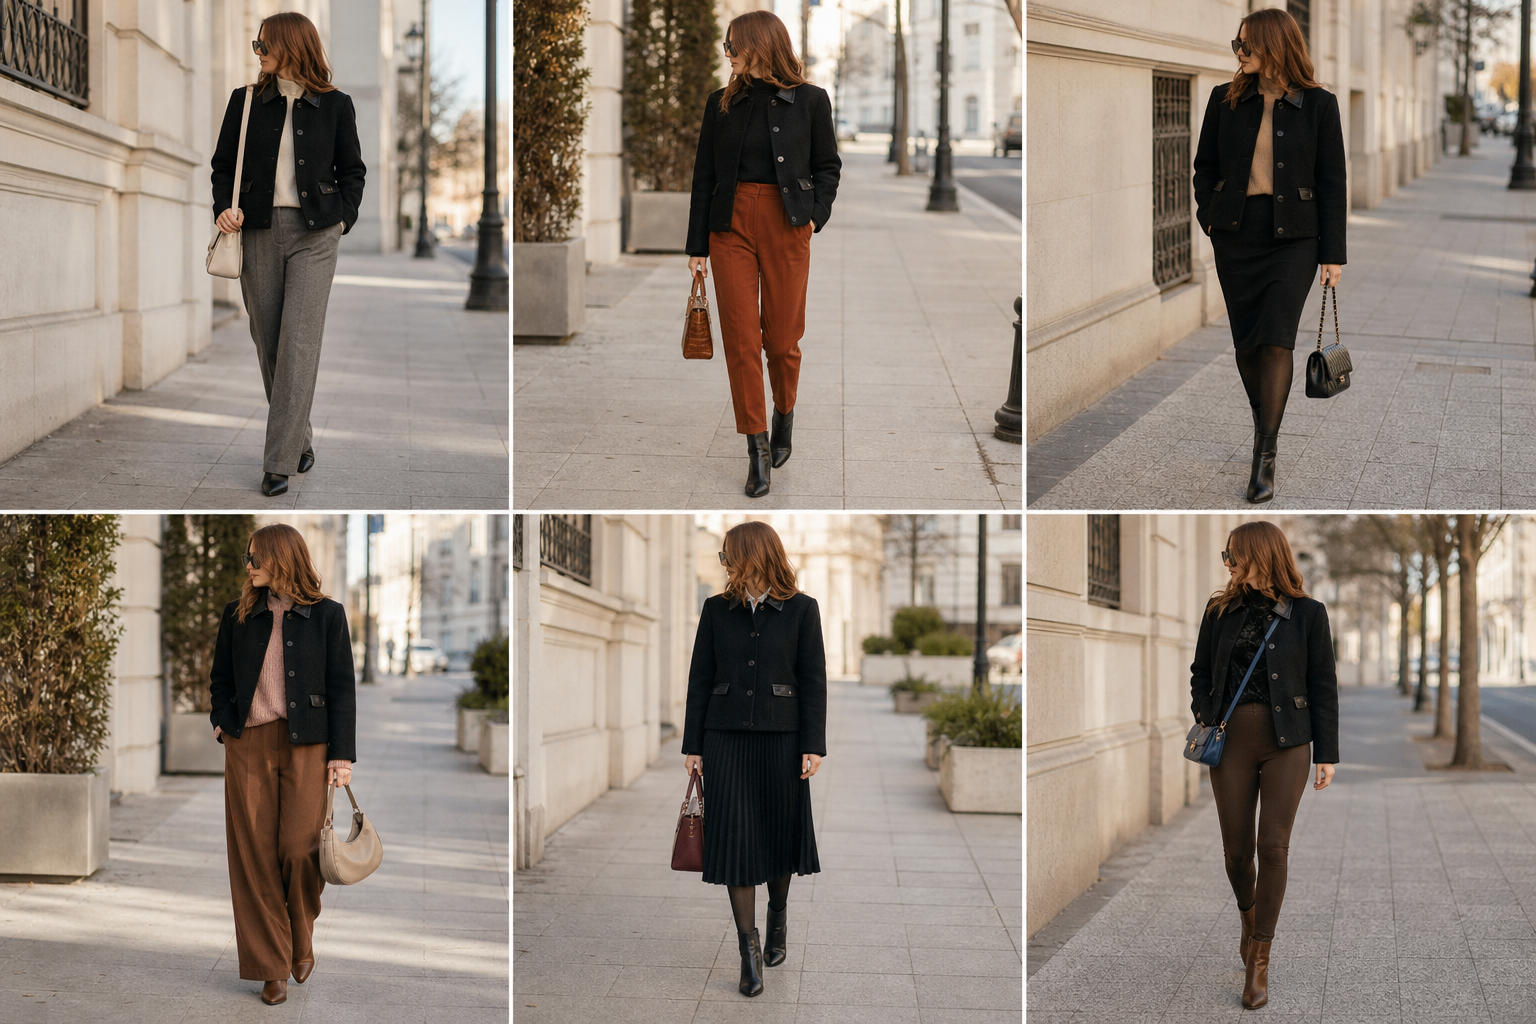
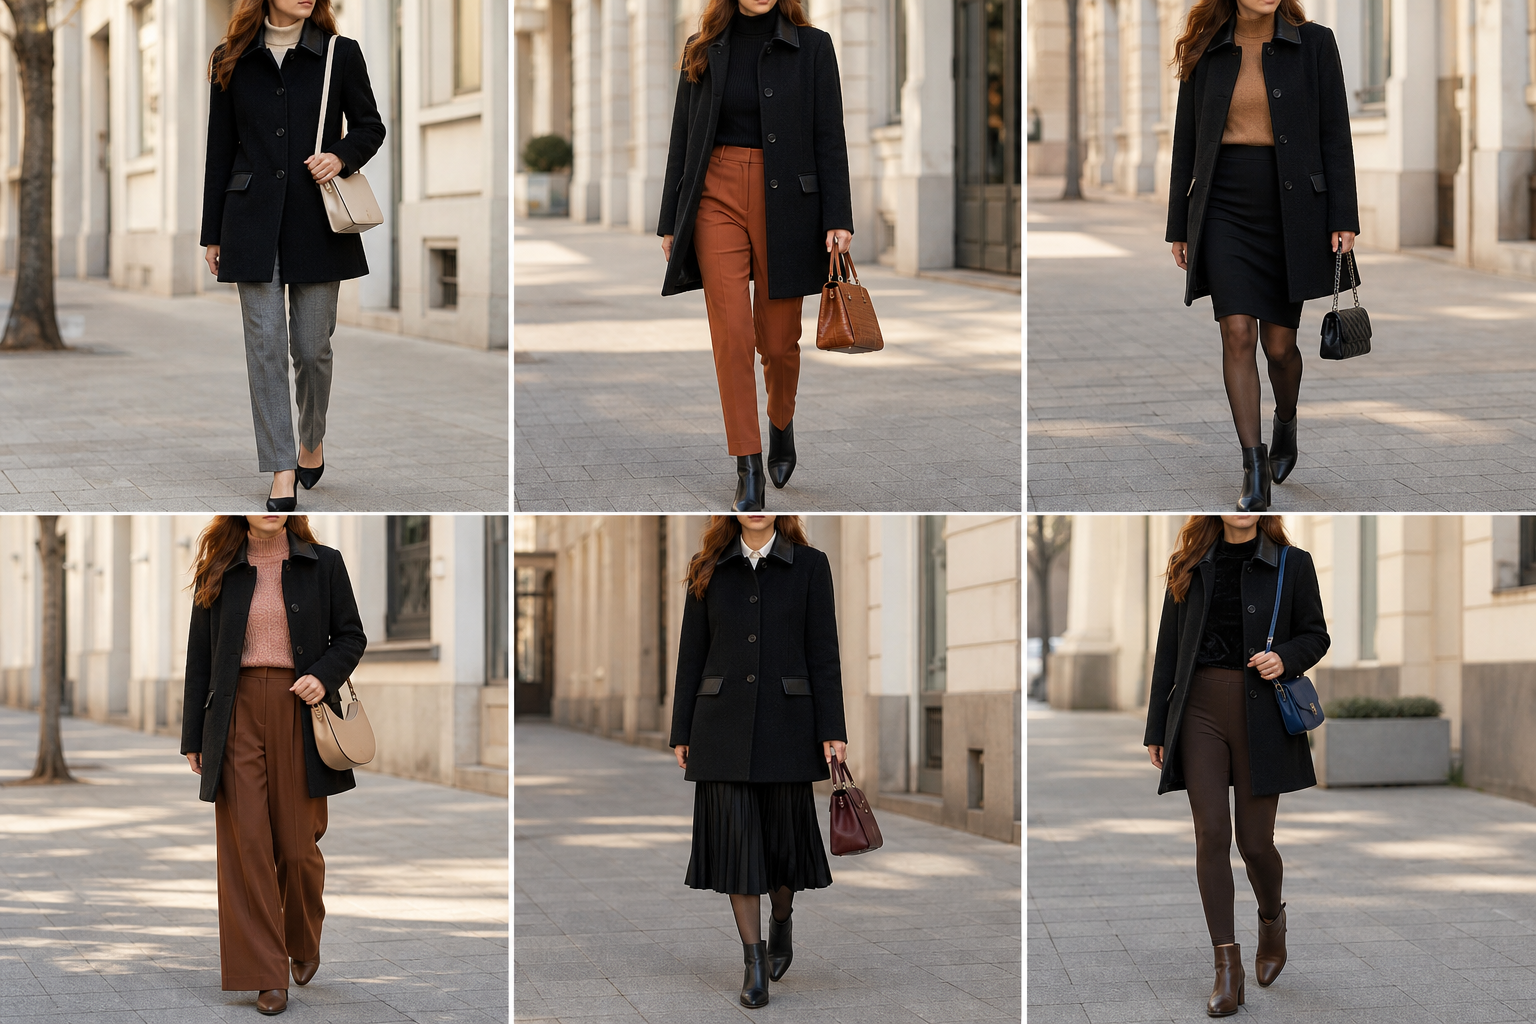
Teste casaco Morgan: comprimento corrigido
Claude-Session: https://claude.ai/code/session_01KAihcLec8a2GA1VkxGEAgJ

diff --git a/prompts/2026-11-09-teste-casaco-morgan.md b/prompts/2026-11-09-teste-casaco-morgan.md
@@ -6,7 +6,7 @@ Crie uma única imagem com uma grade de 6 fotos (2 linhas × 3 colunas), separad
 
 A MODELO (a mesma em todas as fotos): Mulher magra e esguia, 1,68 m, cerca de 56 kg, ombros estreitos, cintura fina, pernas longas. Cabelo castanho acobreado (castanho médio com reflexos cobre, NÃO preto nem castanho escuro). Rosto cortado na altura do nariz ou coberto pelos óculos. Andando na calçada, naturalmente, como se não soubesse que está sendo fotografada; corpo inteiro visível.
 
-PEÇA FIXA (idêntica em todos os looks): casaco PRETO de lã batida, comprimento na altura do quadril (curto), corte reto levemente amplo, GOLA DE CAMISA EM COURO PRETO, quatro botões pretos na frente, bolsos com pequena lapela de couro preto, ombro natural, manga longa. Só o casaco é levemente amplo; o resto é ajustado.
+PEÇA FIXA (idêntica em todos os looks): casaco PRETO de lã batida, COMPRIDO ATÉ O MEIO DA COXA (bem abaixo do quadril, cobre o bumbum inteiro; NÃO é jaqueta curta), corte reto levemente evasê, GOLA DE CAMISA EM COURO PRETO, quatro botões pretos na frente, bolsos com pequena lapela de couro preto, ombro natural, manga longa. Só o casaco é levemente amplo; o resto é ajustado.
 
 LOOKS (escritório, Curitiba frio):
 1. "Calça cinza": casaco fechado sobre suéter felpudo off-white de gola alta baixa; calça reta cinza espinha de peixe no tornozelo; sapato preto de bico com salto médio bloco; bolsa de ombro estruturada off-white.
@@ -16,4 +16,4 @@ LOOKS (escritório, Curitiba frio):
 5. "Plissada": casaco fechado sobre camisa de linho off-white (gola para fora); saia midi plissada preta; meia-calça fina preta; bota preta; bolsa estruturada vinho.
 6. "Legging": casaco aberto sobre body preto de veludo amassado manga longa; legging marrom chocolate com vinco; bota marrom; bolsa transversal pequena azul royal.
 
-O casaco deve ser idêntico em todas as fotos, curto no quadril, com gola de couro. Sem texto, sem logotipos.
+O casaco deve ser idêntico em todas as fotos, longo até o meio da coxa, com gola de couro. Sem texto, sem logotipos.
